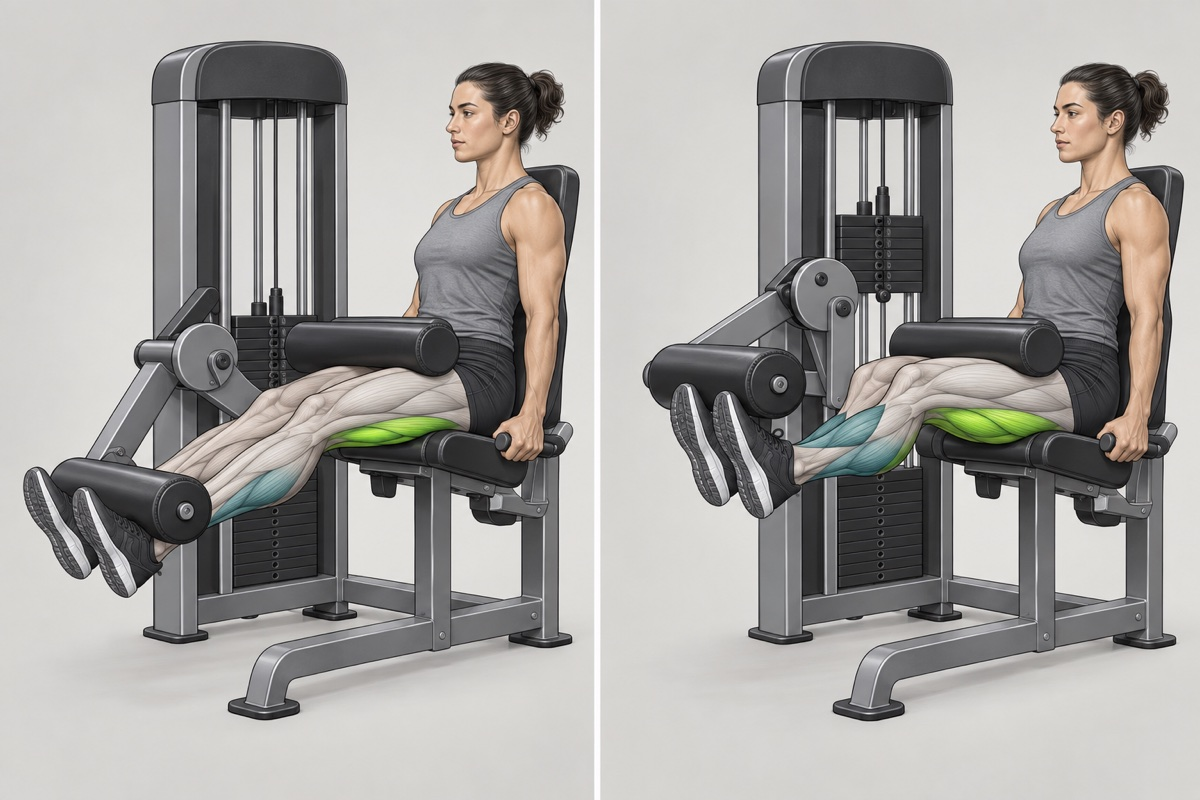
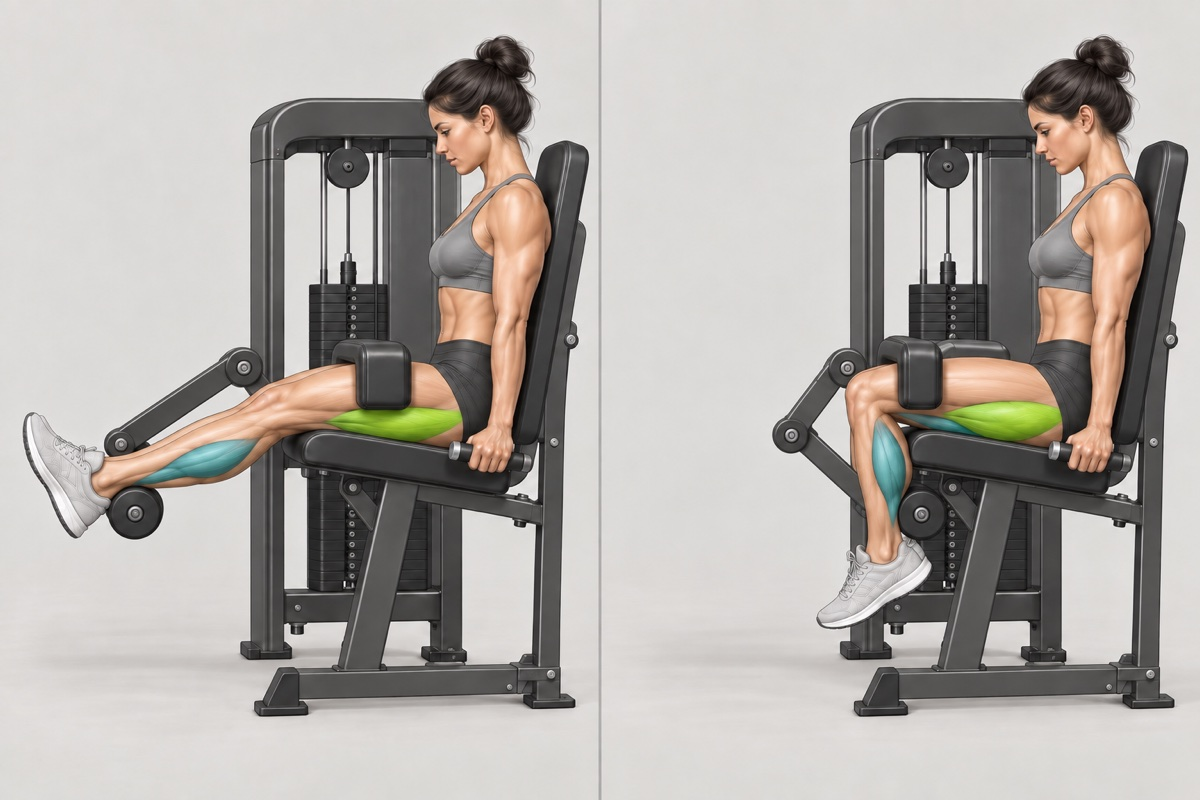
Correct seated leg curl illustration

diff --git a/public/sw.js b/public/sw.js
@@ -1,4 +1,4 @@
-const CACHE="physique-v0.15b";
+const CACHE="physique-v0.15c";
 self.addEventListener("install",event=>event.waitUntil(caches.open(CACHE).then(cache=>cache.addAll(["./manifest.webmanifest"]))));
 self.addEventListener("activate",event=>event.waitUntil(Promise.all([caches.keys().then(keys=>Promise.all(keys.filter(key=>key!==CACHE).map(key=>caches.delete(key)))),self.clients.claim()])));
 self.addEventListener("message",event=>{if(event.data?.type==="SKIP_WAITING")self.skipWaiting()});

diff --git a/app/page.tsx b/app/page.tsx
@@ -25,7 +25,7 @@ type UserPreferences = {
   advanced_supplement_tracking: boolean;
 };
 
-const APP_VERSION = "V0.15B";
+const APP_VERSION = "V0.15C";
 
 const defaultPreferences: UserPreferences = {
   measurement_interval_days: 14,
